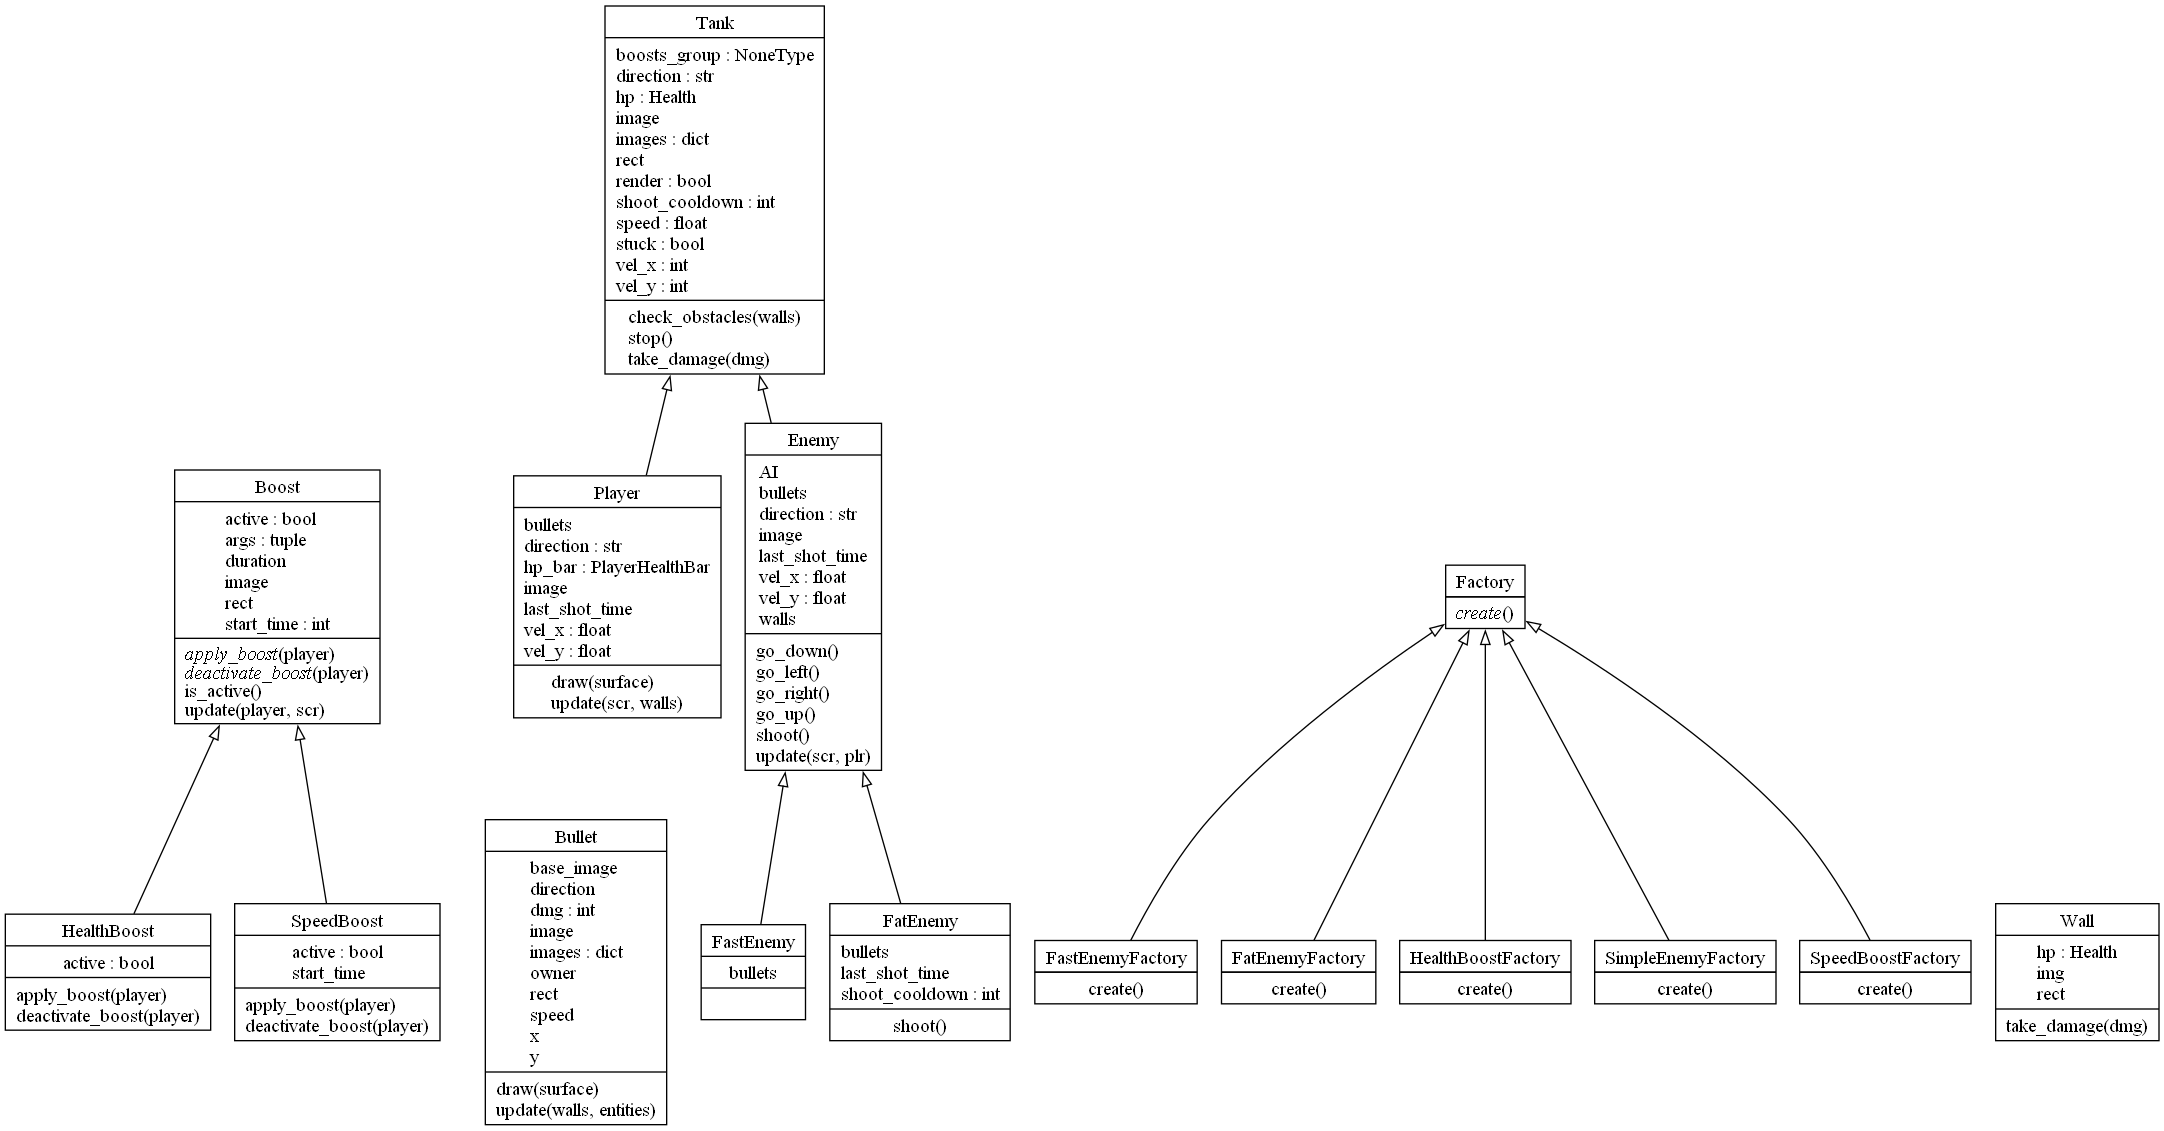
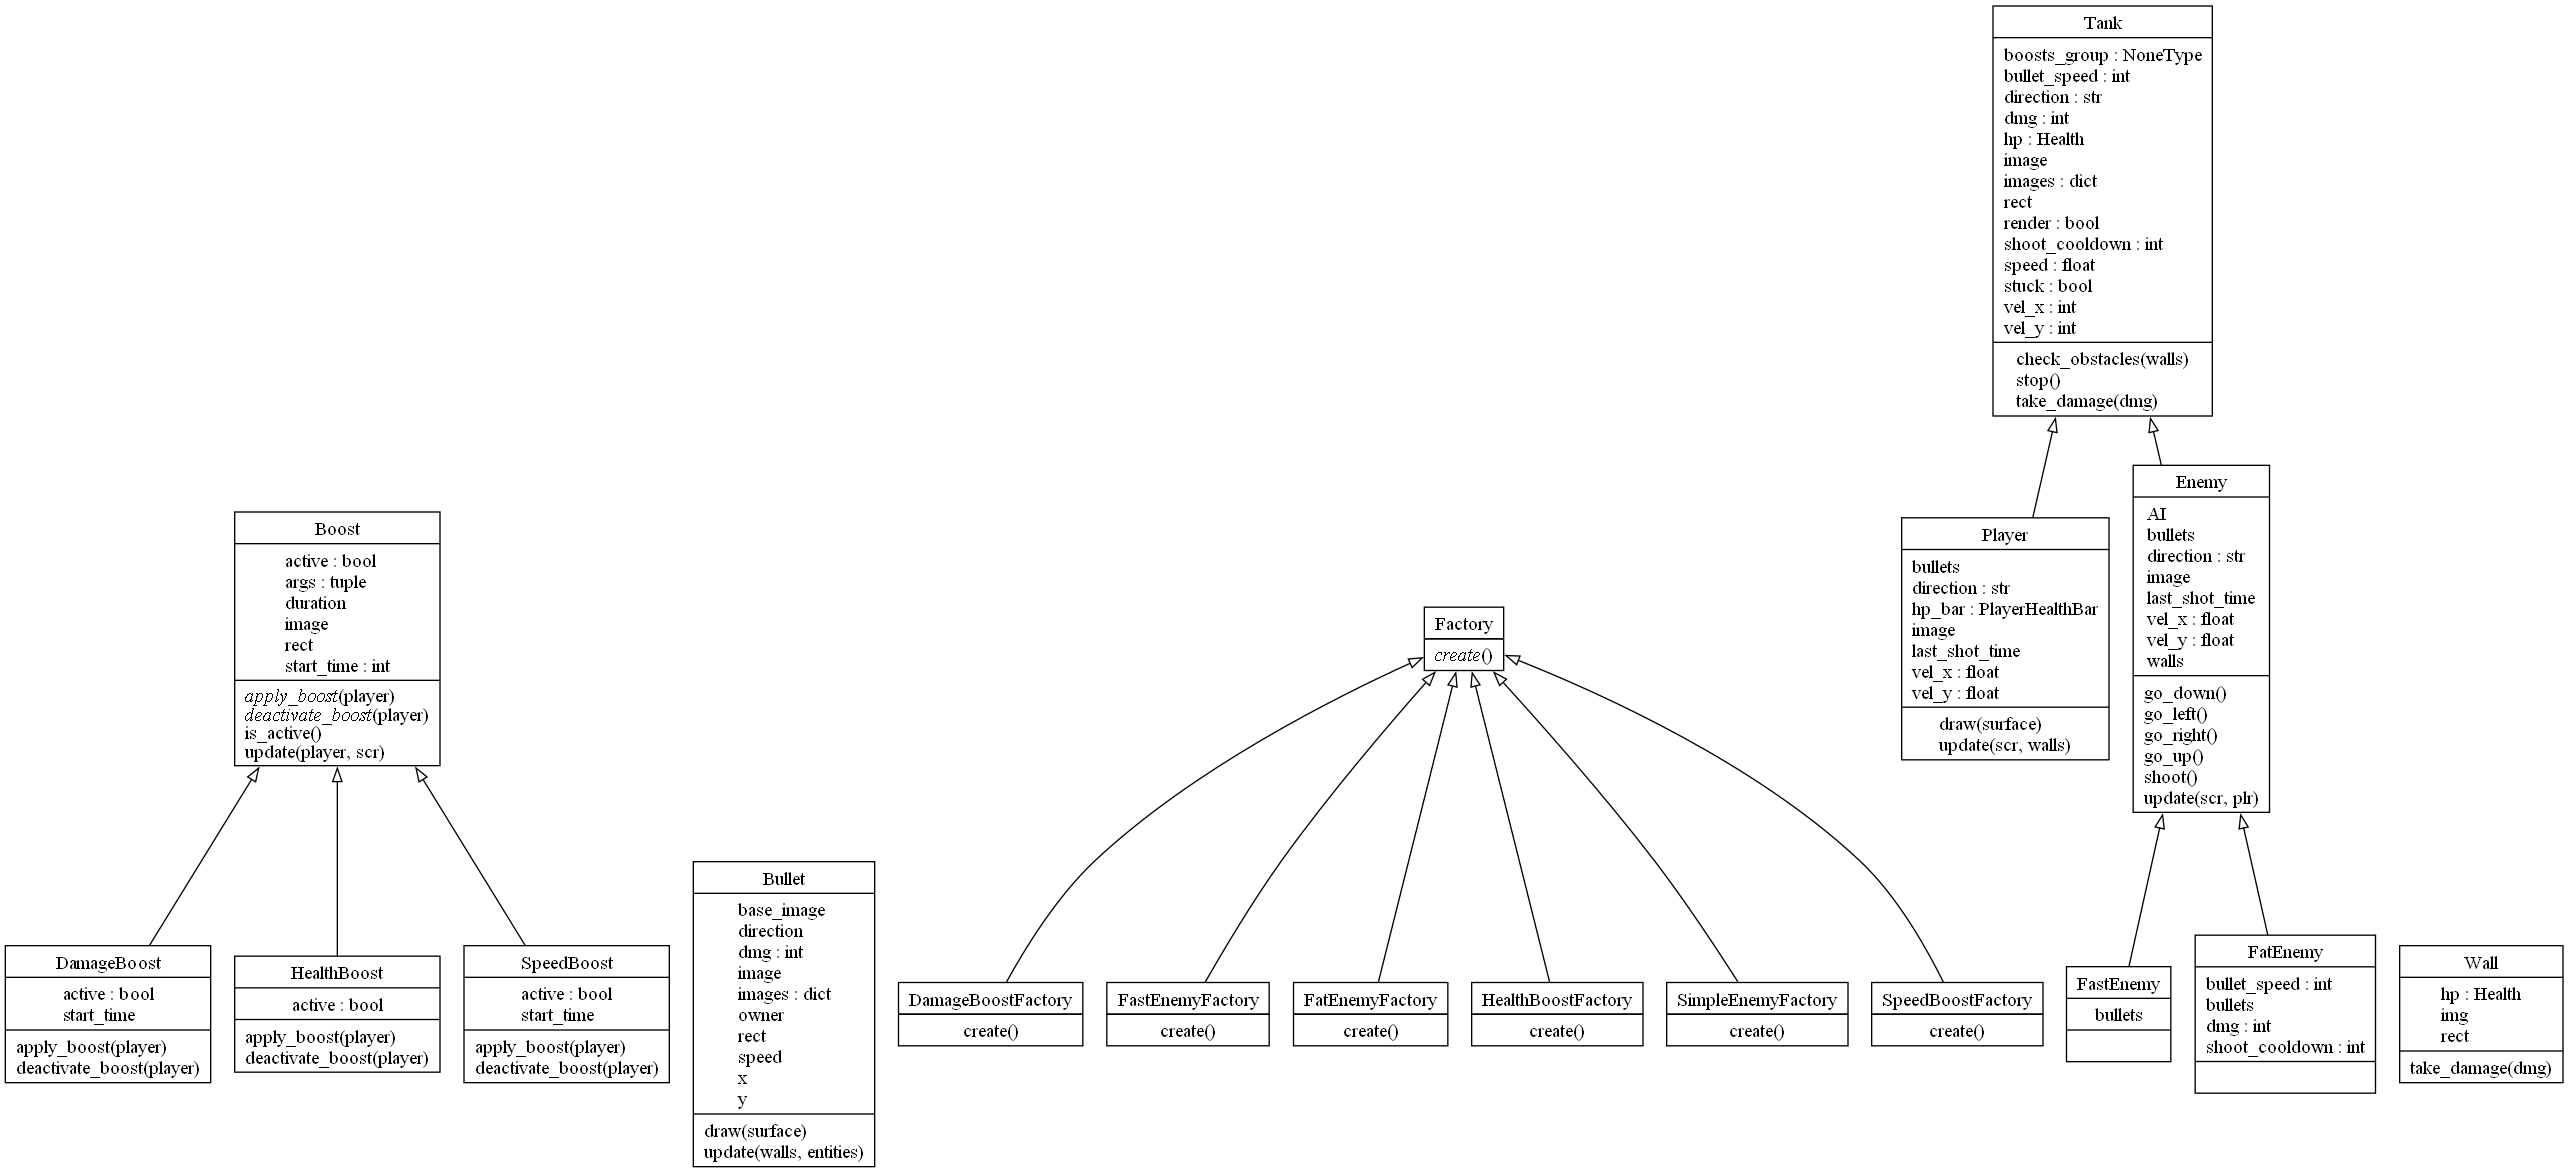
lvl designer and dmg boost, some lvls

diff --git a/lvl_designer.py b/lvl_designer.py
@@ -1,0 +1,82 @@
+import tkinter as tk
+
+
+class PaintByCells:
+    def __init__(self, root, rows=12, columns=16, cell_size=50):
+        self.root = root
+        self.rows = rows
+        self.columns = columns
+        self.cell_size = cell_size
+        self.colors = {"brown": "W", "blue": "B", "red": "E", "white": ".", "green": "P"}
+        self.current_color = "brown"
+        self.grid = [["." for _ in range(columns)] for _ in range(rows)]
+
+        self.canvas = tk.Canvas(root, width=columns * cell_size, height=rows * cell_size)
+        self.canvas.pack()
+
+        self.create_grid()
+        self.setup_bindings()
+
+    def create_grid(self):
+        for row in range(self.rows):
+            for col in range(self.columns):
+                x1 = col * self.cell_size
+                y1 = row * self.cell_size
+                x2 = x1 + self.cell_size
+                y2 = y1 + self.cell_size
+                self.canvas.create_rectangle(x1, y1, x2, y2, outline="black", fill="white")
+
+    def setup_bindings(self):
+        self.canvas.bind("<Button-1>", self.paint)
+        self.canvas.bind("<B1-Motion>", self.paint)
+        self.root.bind("<Key>", self.change_color)
+
+    def paint(self, event):
+        col = event.x // self.cell_size
+        row = event.y // self.cell_size
+        if 0 <= row < self.rows and 0 <= col < self.columns:
+            x1 = col * self.cell_size
+            y1 = row * self.cell_size
+            x2 = x1 + self.cell_size
+            y2 = y1 + self.cell_size
+            self.canvas.create_rectangle(x1, y1, x2, y2, outline="black", fill=self.current_color)
+            self.grid[row][col] = self.colors[self.current_color]
+
+    def change_color(self, event):
+        if event.char == "w":
+            self.current_color = "brown"
+        elif event.char == "b":
+            self.current_color = "blue"
+        elif event.char == "e":
+            self.current_color = "red"
+        elif event.char == "c":
+            self.current_color = "white"
+        elif event.char == "p":
+            self.current_color = "green"
+
+    def save_painting(self):
+        with open("painting.txt", "w") as f:
+            for row in self.grid:
+                f.write("".join(row) + "\n")
+
+    def load_painting(self):
+        try:
+            with open("painting.txt", "r") as f:
+                for row_idx, line in enumerate(f):
+                    for col_idx, char in enumerate(line.strip()):
+                        self.grid[row_idx][col_idx] = char
+                        color = [k for k, v in self.colors.items() if v == char][0]
+                        x1 = col_idx * self.cell_size
+                        y1 = row_idx * self.cell_size
+                        x2 = x1 + self.cell_size
+                        y2 = y1 + self.cell_size
+                        self.canvas.create_rectangle(x1, y1, x2, y2, outline="black", fill=color)
+        except FileNotFoundError:
+            print("No saved painting found.")
+
+
+root = tk.Tk()
+app = PaintByCells(root)
+tk.Button(root, text="Save", command=app.save_painting).pack()
+tk.Button(root, text="Load", command=app.load_painting).pack()
+root.mainloop()

diff --git a/objects.py b/objects.py
@@ -29,6 +29,9 @@ class Tank(pygame.sprite.Sprite):
 
         self.stuck = False
 
+        self.bullet_speed = 10
+        self.dmg = 25
+
         self.render = True
 
         self.hp = UI.Health(hp)
@@ -109,17 +112,13 @@ class Player(Tank):
 
         self.check_obstacles(walls)
 
-        # boosts_hit = pygame.sprite.spritecollide(self, self.boosts_group, True)
-        # for boost in boosts_hit:
-        #     boost.apply_boost(self)
-
         self.rect.clamp_ip(scr.get_rect())
 
         # Стрільба
         if pressed_keys[pygame.K_SPACE]:
             now = pygame.time.get_ticks()
             if now - self.last_shot_time >= self.shoot_cooldown:
-                new_bullet = Bullet("textures/bullet.png", self.rect.centerx, self.rect.centery, self.direction, 10, self)
+                new_bullet = Bullet("textures/bullet.png", self.rect.centerx, self.rect.centery, self.direction, self.bullet_speed, self, dmg=self.dmg)
                 Player.bullets.add(new_bullet)
                 self.last_shot_time = now
 
@@ -165,7 +164,7 @@ class Enemy(Tank):
     def shoot(self):
         now = pygame.time.get_ticks()
         if now - self.last_shot_time >= self.shoot_cooldown:
-            new_bullet = Bullet("textures/bullet.png", self.rect.centerx, self.rect.centery, self.direction, 10, self)
+            new_bullet = Bullet("textures/bullet.png", self.rect.centerx, self.rect.centery, self.direction, self.bullet_speed, self, dmg=self.dmg)
             Player.bullets.add(new_bullet)
             self.last_shot_time = now
 
@@ -192,13 +191,8 @@ class FatEnemy(Enemy):
     def __init__(self, x, y, walls, player, hp=300, speed=1):
         super().__init__(x, y, walls, player, hp=hp, speed=speed, image="textures/fat_enemy.png")
         self.shoot_cooldown = 3500
-
-    def shoot(self):
-        now = pygame.time.get_ticks()
-        if now - self.last_shot_time >= self.shoot_cooldown:
-            new_bullet = Bullet("textures/bullet.png", self.rect.centerx, self.rect.centery, self.direction, 10, self, dmg=50)
-            Player.bullets.add(new_bullet)
-            self.last_shot_time = now
+        self.bullet_speed = 8
+        self.dmg = 50
 
 
 class SimpleEnemyFactory(Factory):
@@ -354,6 +348,21 @@ class SpeedBoost(Boost):
         self.kill()
 
 
+class DamageBoost(Boost):
+    def __init__(self, x, y, duration=5000, *args):
+        super().__init__('textures/damage.png', x, y, duration, args)
+
+    def apply_boost(self, player):
+        if not self.active:
+            player.dmg += self.args[0][0]
+            self.start_time = pygame.time.get_ticks()
+            self.active = True
+
+    def deactivate_boost(self, player):
+        player.dmg -= self.args[0][0]
+        self.kill()
+
+
 class HealthBoostFactory(Factory):
     def create(self, *args):
         return HealthBoost(*args, 0, 50)
@@ -362,4 +371,9 @@ class HealthBoostFactory(Factory):
 class SpeedBoostFactory(Factory):
     def create(self, *args):
         return SpeedBoost(*args, 3000, 5)
+
+
+class DamageBoostFactory(Factory):
+    def create(self, *args):
+        return DamageBoost(*args, 3000, 25)
 

diff --git a/settings.py b/settings.py
@@ -40,8 +40,8 @@ LEVELS = [
     
     ["WWWWWWWWWWWWWWWW",
      "W..P...........W",
-     "W.............W",
-     "W...WWWWWWW.B...W",
+     "W..............W",
+     "W...WWWWWWW.B..W",
      "W...W.....W....W",
      "W...W..E..W....W",
      "W...W.....W....W",
@@ -52,20 +52,46 @@ LEVELS = [
      "WWWWWWWWWWWWWWWW"],
 
     ["WWWWWWWWWWWWWWWW",
-     "W..P...B.......W",
-     "W............E.W",
-     "W...WWWWWWW....W",
-     "W...W.....W....W",
-     "W.B.W..E..W....W",
-     "W...W.....W....W",
-     "W...WWWWWWW.B..W",
+     "W......P.......W",
+     "W.W.WWWWWWWW.W.W",
+     "W.W....BE....W.W",
+     "W.W.WWWWWWWW.W.W",
+     "W......EB......W",
+     "W.W.WWWWWWWW.W.W",
+     "W.W....BE....W.W",
+     "W.W.WWWWWWWW.W.W",
      "W..............W",
-     "W.B...E........W",
-     "W............E.W",
+     "W..............W",
+     "WWWWWWWWWWWWWWWW"],
+
+    ["WWWWWWWWWWWWWWWW",
+     "W....W....W....W",
+     "W.E..W.P..W.E..W",
+     "W..B.W..B.W..B.W",
+     "W....W....W....W",
+     "WWWWWWWWWWWWWWWW",
+     "W....W....W....W",
+     "W....W....W....W",
+     "W.E..W.E..W.E..W",
+     "W..B.W..B.W..B.W",
+     "W....W....W....W",
+     "WWWWWWWWWWWWWWWW"],
+
+    ["WWWWWWWWWWWWWWWW",
+     "WB............BW",
+     "W..BWW....WWB..W",
+     "W..W....BW..W..W",
+     "W..W.WWWWW..W..W",
+     "WEWE.BW.PW..EWEW",
+     "WEWE..WB.WB.EWEW",
+     "W..W..WWWWW.W..W",
+     "W..W..WB....W..W",
+     "W..BWW....WWB..W",
+     "WB............BW",
      "WWWWWWWWWWWWWWWW"]
-    
-    # Додайте більше рівнів за потреби
 ]
+    # Додайте більше рівнів за потреби
+
 CURRENT_LEVEL = 0
 SCENE = "menu"
 damage_ui = UI.DealDamage()

diff --git a/scenes.py b/scenes.py
@@ -5,6 +5,7 @@ import pygame
 import options
 import logger
 import UI
+import os
 
 pygame.font.init()
 
@@ -73,6 +74,7 @@ def scenes(scr, plr, world_map, enemies, entities, boosts_group, clock):
                     return restart_game(scr)
                 elif button_rects[1][1].collidepoint(mouse_pos):
                     logger.log("Гравець нажав Level designer")
+                    os.system('python lvl_designer.py')
                 elif button_rects[2][1].collidepoint(mouse_pos):
                     logger.log("Гравець нажав Options")
                     options.show_options_menu(scr, WIDTH, HEIGHT)

diff --git a/map.py b/map.py
@@ -45,7 +45,7 @@ def generate_boosts():
     for y, row in enumerate(current_level):
         for x, char in enumerate(row):
             if char == "B":
-                factories = [SpeedBoostFactory(), HealthBoostFactory()]
+                factories = [SpeedBoostFactory(), HealthBoostFactory(), DamageBoostFactory()]
                 factory = random.choice(factories)
 
                 boost = factory.create(x * SIZE_CELL, y * SIZE_CELL)
